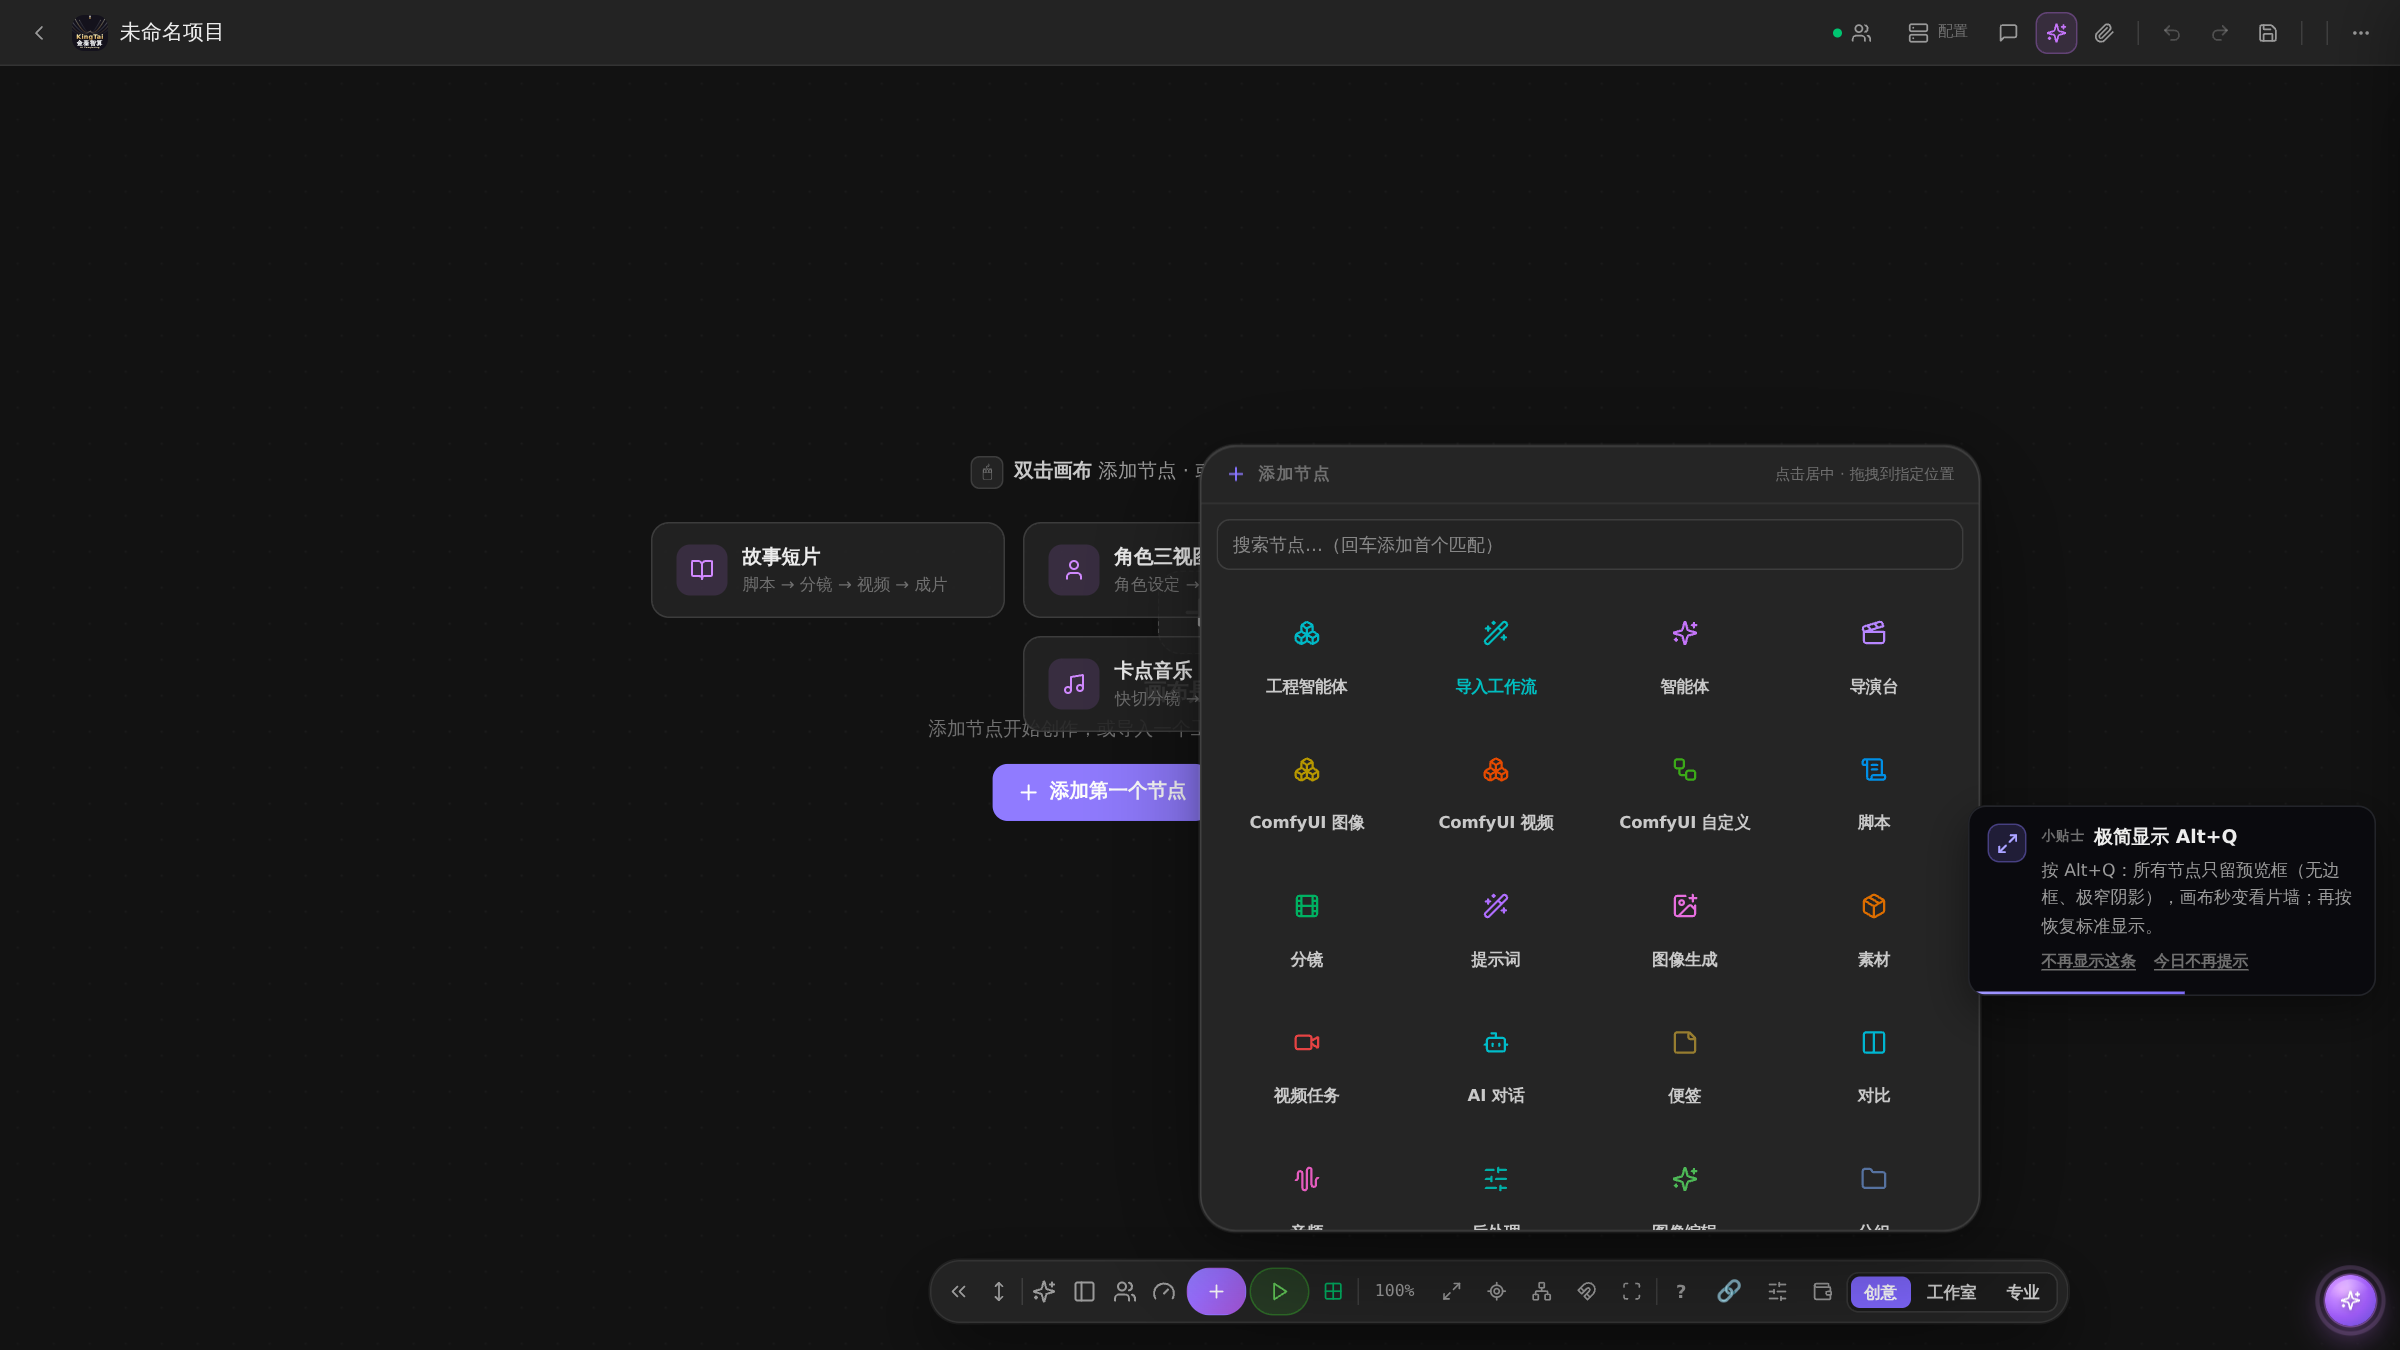
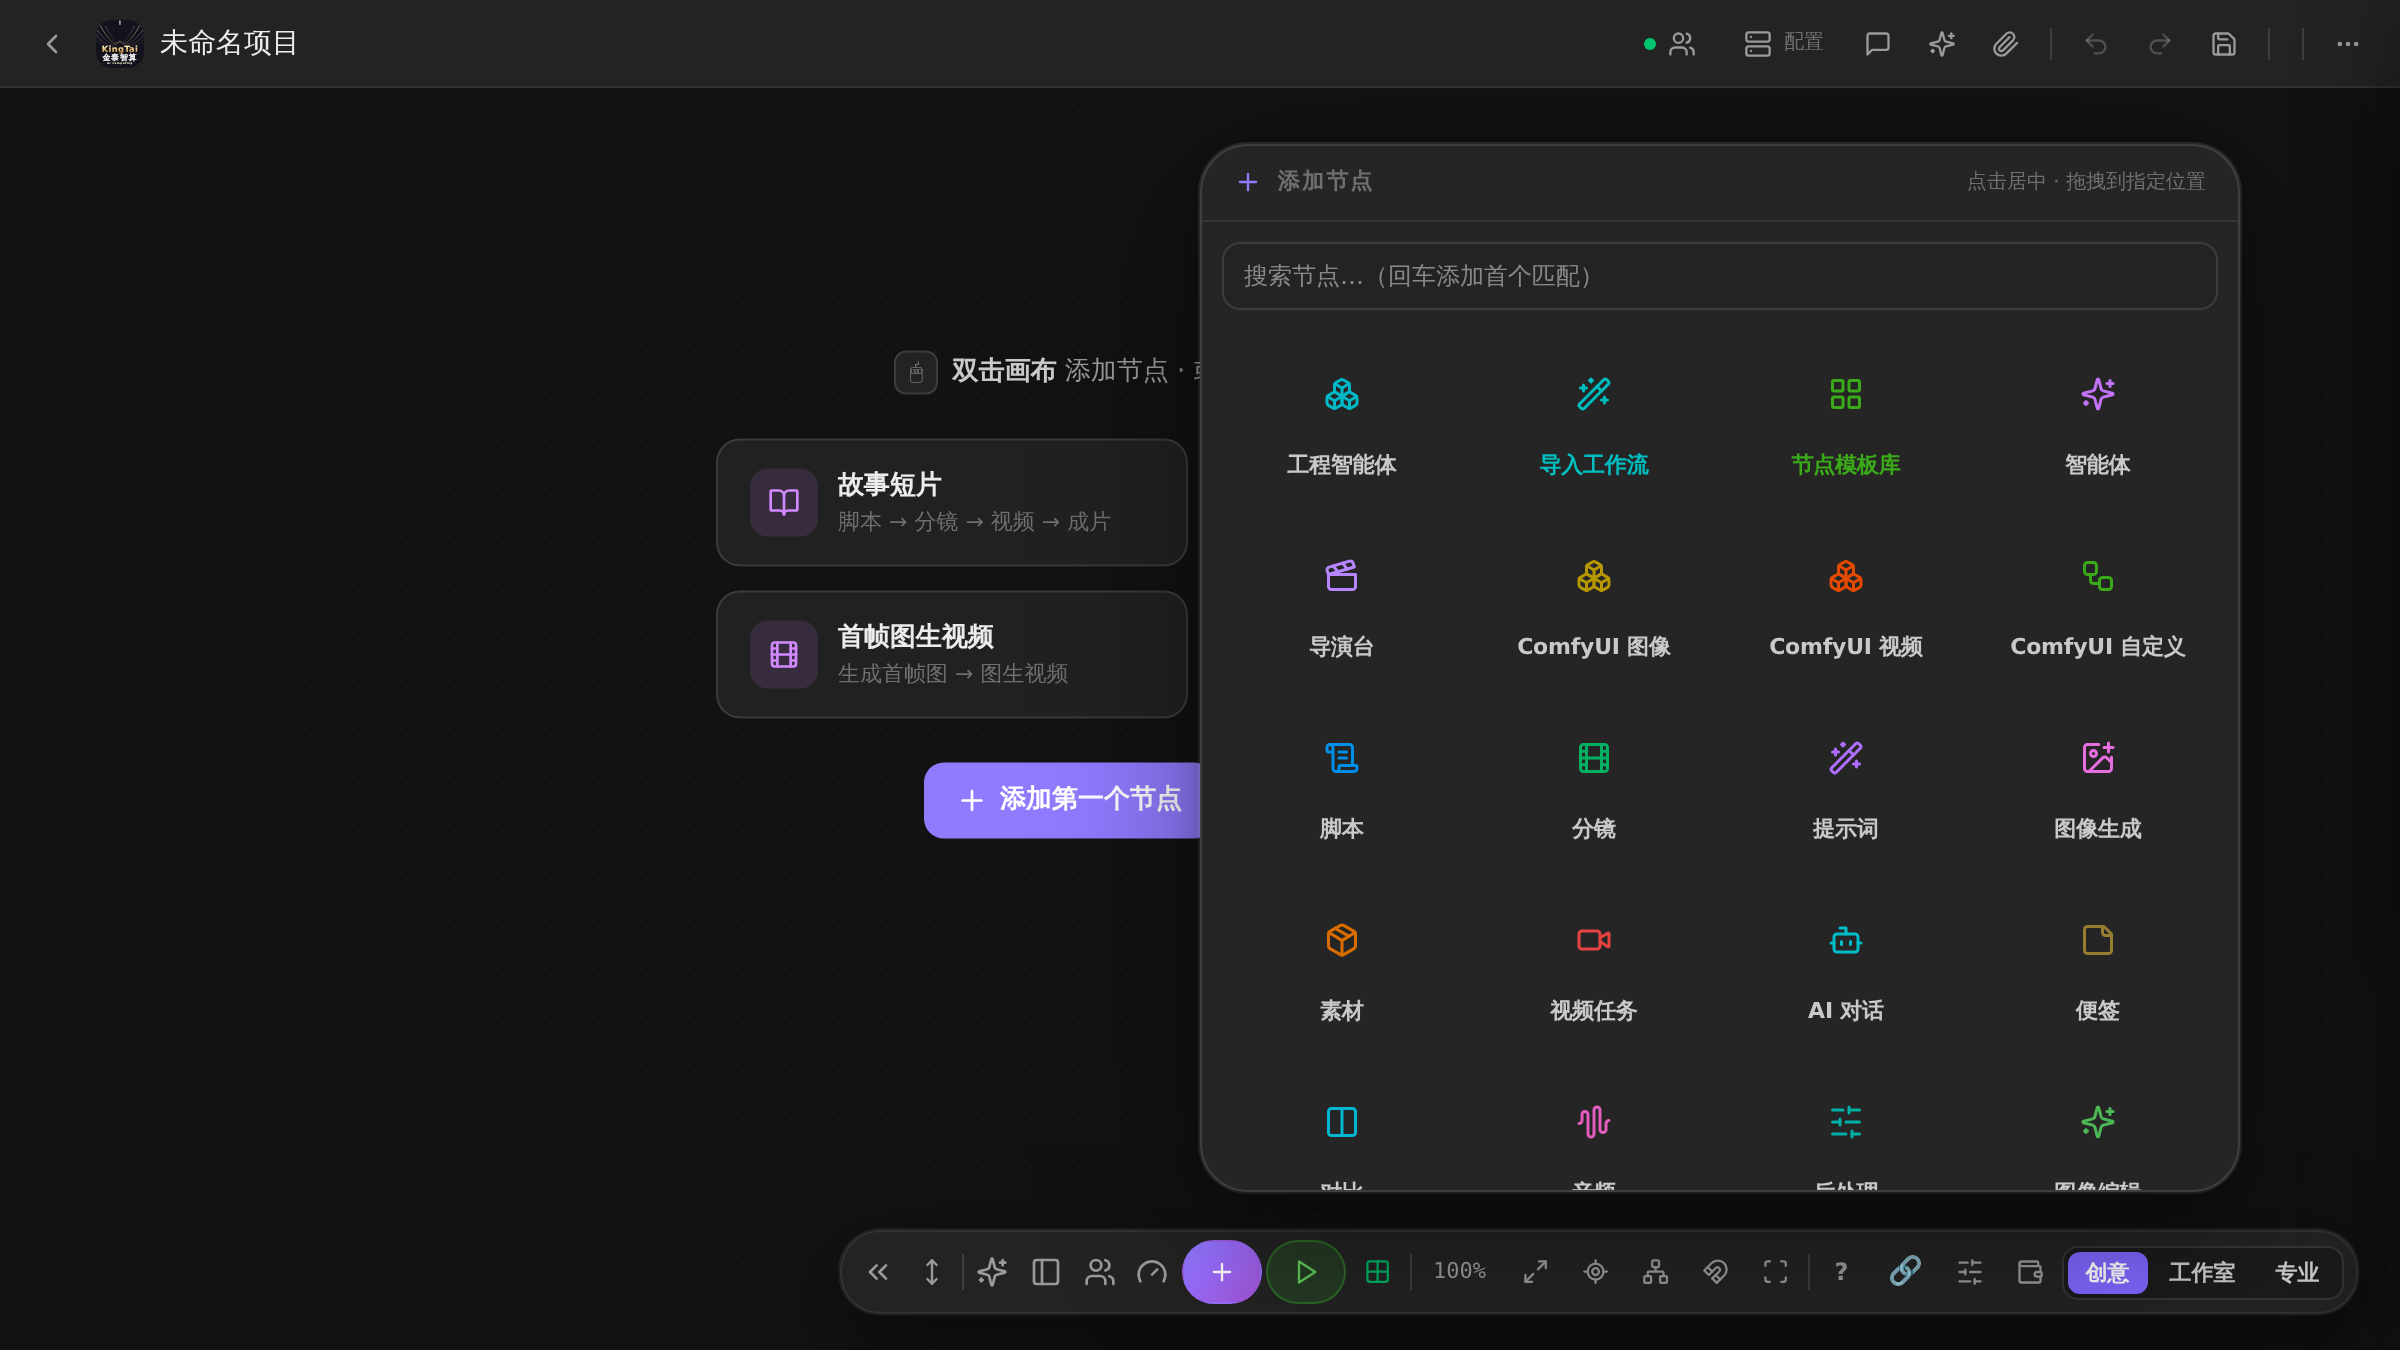
docs: 新手引导/教程并入今日新增（音频工具·节点模板库入口·ComfyUI 自定义正名）+ 更新节点选择器截图
新手引导（BeginnerGuide）：
- 「AI 配乐·配音·音效」卡追加「音频工具」：人声分离(多轨)/翻唱/续写/写歌词。
- 「ComfyUI 节点模板库」卡补充与「ComfyUI 自定义」节点的区分说明（两者在添加节点菜单各有独立入口）。

引导步骤（guideSteps）与可视化教程（tutorialContent）：
- 添加节点步骤补「导入工作流 / 节点模板库」两个快捷磁贴 + 「ComfyUI 自定义 ≠ 节点模板库」提示。
- 音频节点条目补「工具」类别（人声分离/翻唱/续写/写歌词、源音频取上游或上传）。

截图：重拍 quickstart-node-picker.png（2400×1350），现含新的「节点模板库」磁贴与
正名后的「ComfyUI 自定义」，旧混名「ComfyUI模板」已消失。

Claude-Session: https://claude.ai/code/session_01FTUYSZYfxBa2R8veKutj4w

diff --git a/client/src/components/canvas/BeginnerGuide.tsx b/client/src/components/canvas/BeginnerGuide.tsx
@@ -107,10 +107,10 @@ function WelcomeModal({ onClose, onStartTour }: { onClose: () => void; onStartTo
     { Icon: Boxes, color: "oklch(0.68 0.20 100)",
       title: "ComfyUI 自建集成", desc: "图像（多 LoRA / ControlNet+预处理 / IPAdapter / Inpaint / 放大）+ 视频（AnimateDiff / Wan / LTX，支持角色 LoRA）、15 类模型自动发现、自定义工作流导入（含专业导入向导，见下）；上游提示词「优先/转发」、运行后队列空闲自动清显存、参数绑定失同步校验、随机/固定种子、多行提示词批量出图" },
     { Icon: Bookmark, color: "oklch(0.65 0.20 140)",
-      title: "ComfyUI 节点模板库", desc: "右键任意 ComfyUI 节点把全部参数（含提示词 / 工作流）存为共享模板，全员可调用；按节点外框颜色分类、可搜索 / 注释 / 重命名，点击即在画布快速新建带参节点",
+      title: "ComfyUI 节点模板库", desc: "右键任意 ComfyUI 节点把全部参数（含提示词 / 工作流）存为共享模板，全员可调用；按节点外框颜色分类、可搜索 / 注释 / 重命名，点击即在画布快速新建带参节点。注意区分：「ComfyUI 自定义」是导入你自己 workflow JSON 的空白节点，「节点模板库」是共享预设——两者在添加节点菜单里都有独立入口，别混",
       badge: "NEW" },
     { Icon: Music, color: "oklch(0.70 0.18 340)",
-      title: "AI 配乐 · 配音 · 音效", desc: "音频节点接入 Suno / MiniMax 音乐生成、OpenAI / ElevenLabs / 本地 VoxCPM 配音与 ElevenLabs SFX 音效生成；对白支持「角色名：台词」多角色分音色 casting，逐段各自配音自动拼接成镜级音频",
+      title: "AI 配乐 · 配音 · 音效 · 音频工具", desc: "音频节点接入 Suno / MiniMax 音乐生成、OpenAI / ElevenLabs / 本地 VoxCPM 配音与 ElevenLabs SFX 音效生成；对白支持「角色名：台词」多角色分音色 casting，逐段各自配音自动拼接成镜级音频；新增「工具」类别：人声分离（拆人声/伴奏/鼓/贝斯/钢琴/吉他多轨）、翻唱（换风格重唱）、续写（从第 N 秒接写）、写歌词",
       badge: "NEW" },
     { Icon: Wallet, color: "oklch(0.72 0.18 155)",
       title: "Poyo 余额仪表盘", desc: "顶栏实时显示剩余 Poyo 点数，配合模型选择器的点数标注，生成前即可掌握预算与消耗",

diff --git a/client/src/lib/tutorialContent.ts b/client/src/lib/tutorialContent.ts
@@ -41,7 +41,7 @@ export const TUTORIAL_CHAPTERS: TutorialChapter[] = [
         "首次进入会弹出欢迎页与新手导览——建议完整走一遍导览（约 1 分钟），之后可随时从「更多 → 新手导览」重开。",
       ], image: { slug: "quickstart-home", caption: "首页：新建项目入口" } },
       { id: "first-node", title: "第二步：添加第一个节点", paragraphs: [
-        "点底部工具栏的「添加」（或按 Tab）打开节点选择器：按脚本 / 图像 / 视频 / 音频 / ComfyUI / 剪辑分类，支持搜索，回车添加首个匹配项。",
+        "点底部工具栏的「添加」（或按 Tab）打开节点选择器：按脚本 / 图像 / 视频 / 音频 / ComfyUI / 剪辑分类，支持搜索，回车添加首个匹配项。顶部另有「导入工作流」「节点模板库」两个快捷磁贴；其中「ComfyUI 自定义」是导入你自己工作流 JSON 的空白节点，「节点模板库」是共享预设工作流库，二者名字别混。",
         "画布空白处双击也可以就地新建节点。最常见的起点是「脚本」节点（写故事）或直接一个「图像」节点（出画面）。",
       ], image: { slug: "quickstart-node-picker", caption: "节点选择器" } },
       { id: "first-flow", title: "第三步：连线成工作流", paragraphs: [
@@ -132,6 +132,7 @@ export const TUTORIAL_CHAPTERS: TutorialChapter[] = [
       ] },
       { id: "n-audio", title: "音频节点", paragraphs: [
         "用途：配乐 / 配音 / 音效生成，也可上传本地音频。截取 / 变速操作条随卡可用。",
+        "音频工具（「工具」类别）：人声分离（拆人声 / 伴奏 / 鼓 / 贝斯 / 钢琴 / 吉他多轨）、翻唱（换风格重唱一段）、续写（从第 N 秒自然接写）、写歌词（按主题生成歌词文本）；源音频可连上游音频节点或直接上传。",
         "典型连线：音频 → 合并（整体配乐）；逐镜配音不用建音频节点——镜头表「批量配音」按台词自动生成。",
       ] },
       { id: "n-character", title: "角色节点", paragraphs: [

diff --git a/client/src/lib/guideSteps.ts b/client/src/lib/guideSteps.ts
@@ -82,7 +82,7 @@ export const GUIDE_STEPS: TourStep[] = [
     title: "添加你的第一个节点",
     body: [
       "点亮的「添加」会弹出节点选择器：按脚本 / 图像 / 视频 / 音频 / ComfyUI 等分类排列，支持搜索，回车即添加首个匹配。",
-      "顶部还有「导入工作流」向导磁贴，可直接把 ComfyUI 工作流 JSON 变成画布节点。也可在画布空白处双击快速新建。",
+      "顶部还有两个快捷磁贴：「导入工作流」向导（把 ComfyUI 工作流 JSON 变成画布节点）、「节点模板库」（打开共享预设工作流库，选一个即落带参节点）。注意「ComfyUI 自定义」磁贴是导入你自己 JSON 的空白节点，和「节点模板库」不是一回事。也可在画布空白处双击快速新建。",
     ],
     tip: "试着点一下高亮的「添加」按钮，看看节点选择器。",
     target: '[data-tour="add-node"]',